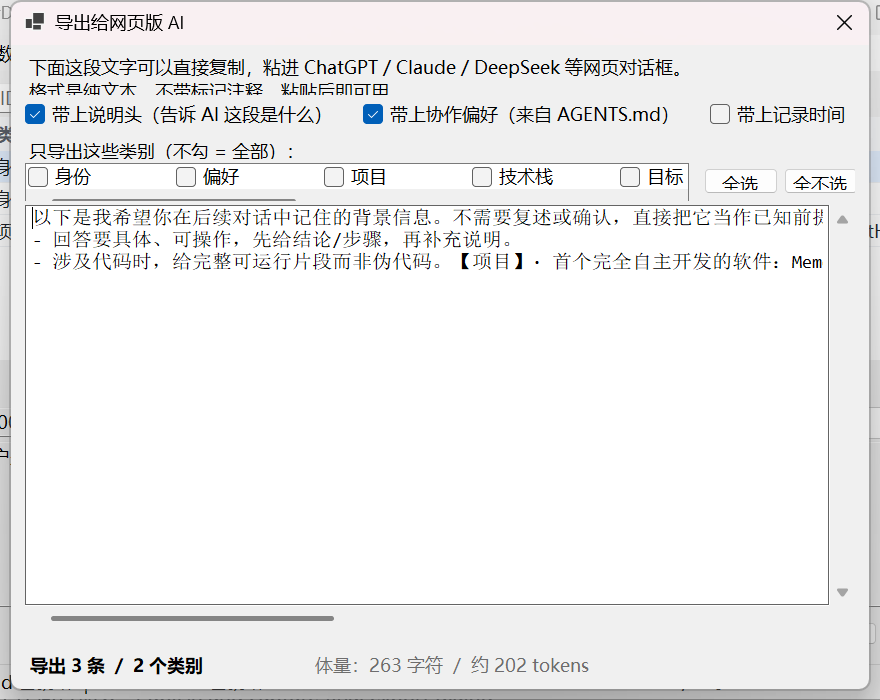
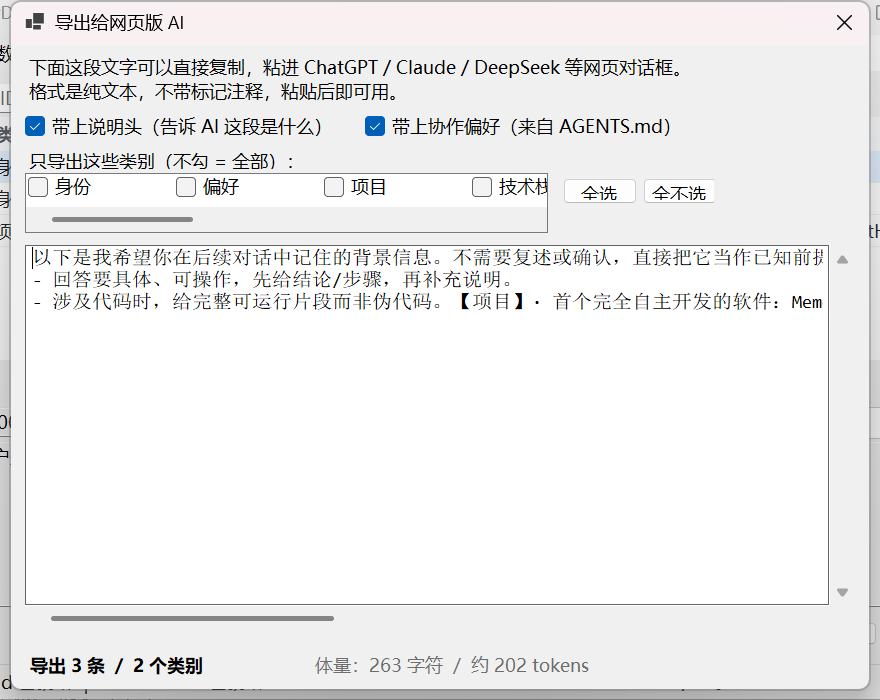
fix(ui): 修复导出对话框文字被遮挡，并移除「记录时间」选项
遮挡问题（发布前必须修掉的那种）
- 现象：对话框顶部说明文字的第二行被下方复选框压住，字被切一半。
- 根因：说明 Label 的高度被硬编码成 40px，而两行中文实测需要 48px，
  溢出 8px 正好盖到下一行控件上。实测数据：
    Microsoft YaHei UI 9pt 行高 22.9px，两行 MeasureString = 48px。
- 修法：不再硬编码任何高度。外层改用
  Panel(AutoSize, GrowAndShrink) -> FlowLayoutPanel(TopDown, AutoSize)
  的自上而下自动布局，说明文字用 AutoSize + MaximumSize 自动换行测高，
  整块按内容自动撑开。宽度变化时重算 MaximumSize，保证换行点跟着窗口走。
- 教训：布局尺寸交给布局引擎，手工算高度在改字体、改 DPI、改文案时必翻车。

移除「记录时间」
- 用户明确表示导出不需要记录时间：对 AI 判断帮助小，还会明显拉长体量。
- 导出对话框去掉「带上记录时间」复选框。
- CLI 去掉 --with-time 选项。
- 导出侧固定 IncludeTime = false。

自检 140 项全通过，导出内容与体量不变（263 字符 / 约 202 tokens）。

Changed region(s): [[0.0307, 0.12, 0.9818, 0.45], [0.3989, 0.15, 0.767, 0.21], [0.8284, 0.15, 0.9818, 0.18]]

diff --git a/apps/MemoryDeck/src/Ui/ExportDialog.cs b/apps/MemoryDeck/src/Ui/ExportDialog.cs
@@ -16,7 +16,6 @@ public sealed class ExportDialog : Form
     private readonly IReadOnlyList<MemoryEntry> _entries;
 
     private readonly TextBox _preview = new();
-    private readonly CheckBox _chkTime = new() { Text = "带上记录时间", AutoSize = true };
     private readonly CheckBox _chkPreferences = new() { Text = "带上协作偏好（来自 AGENTS.md）", AutoSize = true };
     private readonly CheckBox _chkHeader = new() { Text = "带上说明头（告诉 AI 这段是什么）", AutoSize = true };
     private readonly CheckedListBox _categories = new();
@@ -54,30 +53,49 @@ public sealed class ExportDialog : Form
         MinimumSize = new Size(640, 480);
         Font = new Font("Microsoft YaHei UI", 9F);
 
-        // ---------------- 顶部：说明 + 选项
-        var top = new Panel { Dock = DockStyle.Top, Height = 156, Padding = new Padding(14, 10, 14, 6) };
+        // ---------------- 顶部：说明 + 选项 + 类别筛选
+        // 用「自上而下的自动布局」：外层纵向 FlowLayoutPanel(AutoSize) 堆三块，
+        // 每块自己决定高度，整块再按内容自动撑高。
+        // 之前把说明文字的高度硬编码成 40px，而两行中文实测需要 48px，
+        // 结果文字溢出压住下方复选框。手工测高这类事交给布局引擎，别再硬编码。
+        var headerHost = new Panel
+        {
+            Dock = DockStyle.Top,
+            Padding = new Padding(14, 10, 14, 8),
+            AutoSize = true,
+            AutoSizeMode = AutoSizeMode.GrowAndShrink,
+        };
+
+        var headerStack = new FlowLayoutPanel
+        {
+            Dock = DockStyle.Top,
+            FlowDirection = FlowDirection.TopDown,
+            WrapContents = false,
+            AutoSize = true,
+            AutoSizeMode = AutoSizeMode.GrowAndShrink,
+        };
 
         var explain = new Label
         {
-            Dock = DockStyle.Top,
-            Height = 40,
+            AutoSize = true,
+            Margin = new Padding(0, 0, 0, 6),
             Text = "下面这段文字可以直接复制，粘进 ChatGPT / Claude / DeepSeek 等网页对话框。\n" +
                    "格式是纯文本，不带标记注释，粘贴后即可用。",
         };
 
         var optionsRow = new FlowLayoutPanel
         {
-            Dock = DockStyle.Top,
-            Height = 44,
+            AutoSize = true,
+            AutoSizeMode = AutoSizeMode.GrowAndShrink,
             FlowDirection = FlowDirection.LeftToRight,
             WrapContents = false,
+            Margin = new Padding(0, 0, 0, 8),
         };
-        _chkTime.Checked = false;
         _chkPreferences.Checked = true;
         _chkHeader.Checked = true;
-        foreach (var box in new[] { _chkHeader, _chkPreferences, _chkTime })
+        foreach (var box in new[] { _chkHeader, _chkPreferences })
         {
-            box.Margin = new Padding(0, 6, 22, 8);
+            box.Margin = new Padding(0, 4, 24, 0);
             box.CheckedChanged += (_, _) => Rebuild();
             optionsRow.Controls.Add(box);
         }
@@ -128,9 +146,28 @@ public sealed class ExportDialog : Form
         categoryRow.Controls.Add(categoryButtons);
         categoryRow.Controls.Add(categoryLabel);
 
-        top.Controls.Add(categoryRow);
-        top.Controls.Add(optionsRow);
-        top.Controls.Add(explain);
+        // 组装：纵向堆叠，每块自己决定高度
+        categoryRow.Height = 84;
+        categoryRow.Margin = new Padding(0);
+        categoryRow.AutoSize = false;
+        headerStack.Controls.Add(explain);
+        headerStack.Controls.Add(optionsRow);
+        headerStack.Controls.Add(categoryRow);
+        headerHost.Controls.Add(headerStack);
+
+        // 说明文字要换行：宽度跟着窗口走，高度交给 AutoSize
+        void ResizeExplain()
+        {
+            var available = headerHost.ClientSize.Width - headerHost.Padding.Horizontal;
+            if (available > 60) explain.MaximumSize = new Size(available, 0);
+            if (available > 60)
+            {
+                categoryRow.Width = available;
+                optionsRow.Width = available;
+            }
+        }
+        headerHost.Resize += (_, _) => ResizeExplain();
+        ResizeExplain();
 
         // ---------------- 中部：预览
         _preview.Dock = DockStyle.Fill;
@@ -167,7 +204,7 @@ public sealed class ExportDialog : Form
 
         Controls.Add(previewHost);
         Controls.Add(bottom);
-        Controls.Add(top);
+        Controls.Add(headerHost);
 
         AcceptButton = _btnCopy;
         CancelButton = _btnClose;
@@ -197,7 +234,8 @@ public sealed class ExportDialog : Form
             agentsText,
             new MemoryExporter.Options
             {
-                IncludeTime = _chkTime.Checked,
+                // 记录时间固定不导出：对 AI 判断帮助小，且会明显拉长体量
+                IncludeTime = false,
                 IncludePreferences = _chkPreferences.Checked,
                 IncludeHeader = _chkHeader.Checked,
                 OnlyCategories = chosen,

diff --git a/apps/MemoryDeck/src/Program.cs b/apps/MemoryDeck/src/Program.cs
@@ -107,7 +107,6 @@ internal sealed class CommandLineOptions
         导出（给网页版 AI 用的纯文本）：
           MemoryDeck.exe --export [-o 文件]           导出可粘贴的纯文本；不指定 -o 则打到 stdout
           MemoryDeck.exe --export -o out.txt          写入文件（UTF-8 无 BOM）
-          MemoryDeck.exe --export --with-time         带上记录时间
           MemoryDeck.exe --export --no-preferences    不带 AGENTS.md 里的协作偏好
           MemoryDeck.exe --export --no-header         不带说明头
           MemoryDeck.exe --export --category 身份 --category 项目
@@ -149,11 +148,6 @@ internal sealed class CommandLineOptions
                 case "--export":
                     options.RunExport = true;
                     break;
-
-                case "--with-time":
-                    options.Export.IncludeTime = true;
-                    break;
-
                 case "--no-preferences":
                     options.Export.IncludePreferences = false;
                     break;

diff --git a/apps/MemoryDeck/src/ExportCommand.cs b/apps/MemoryDeck/src/ExportCommand.cs
@@ -29,7 +29,8 @@ internal static class ExportCommand
                 agentsText,
                 new MemoryExporter.Options
                 {
-                    IncludeTime = options.IncludeTime,
+                    // 记录时间固定不导出（对 AI 判断帮助小，且明显拉长体量）
+                IncludeTime = false,
                     IncludePreferences = options.IncludePreferences,
                     IncludeHeader = options.IncludeHeader,
                     OnlyCategories = options.Categories,

diff --git a/README.md b/README.md
@@ -110,11 +110,12 @@ MemoryDeck.exe --help               # 帮助
 ```powershell
 MemoryDeck.exe --export                     # 打到 stdout，可接管道
 MemoryDeck.exe --export -o 记忆.txt          # 写入文件（UTF-8 无 BOM）
-MemoryDeck.exe --export --with-time         # 带上记录时间
 MemoryDeck.exe --export --no-preferences    # 不带 AGENTS.md 里的协作偏好
 MemoryDeck.exe --export --no-header         # 不带说明头
 MemoryDeck.exe --export --category 身份 --category 项目   # 只导出指定类别
 ```
+
+导出**不包含记录时间**——对 AI 判断帮助小，还会明显拉长体量。
 
 界面里对应 **数据(D) → 导出给网页版 AI…**（`Ctrl+Shift+E`）。
 
